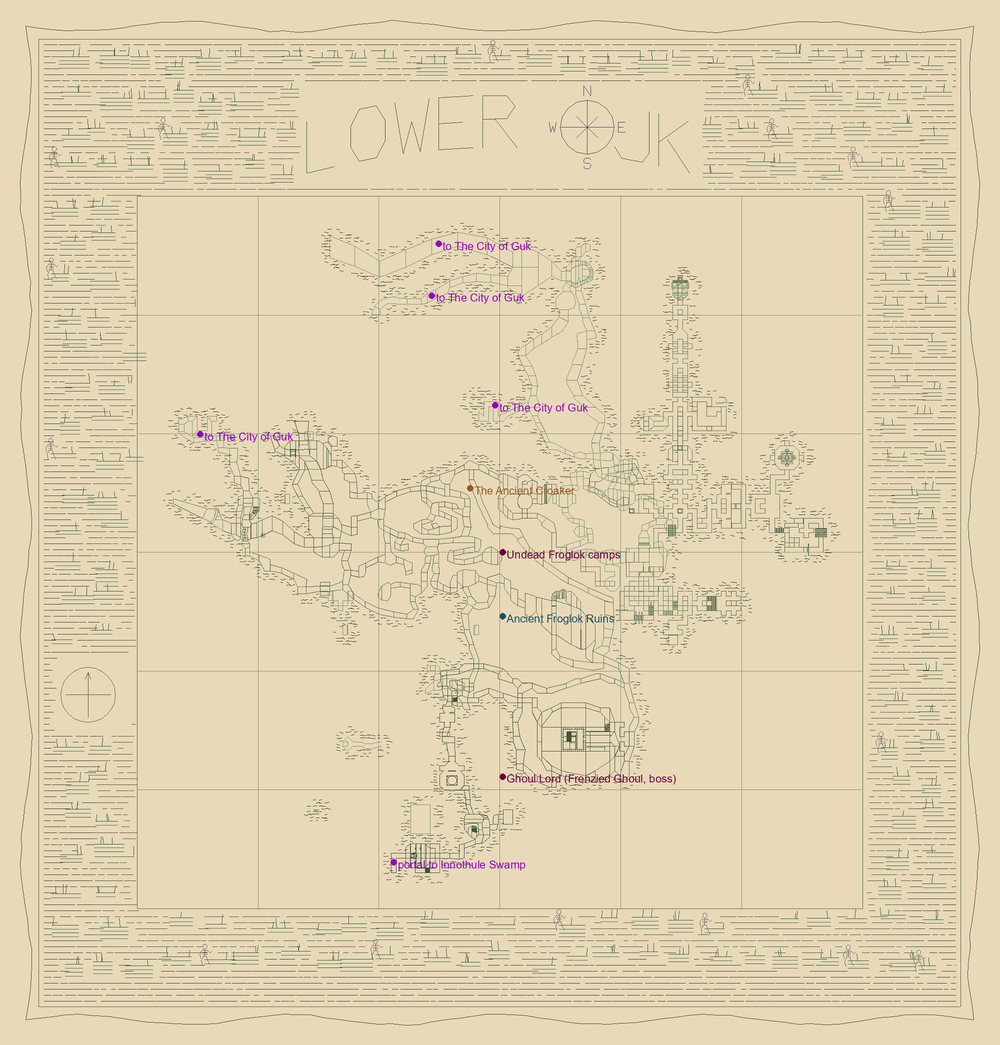
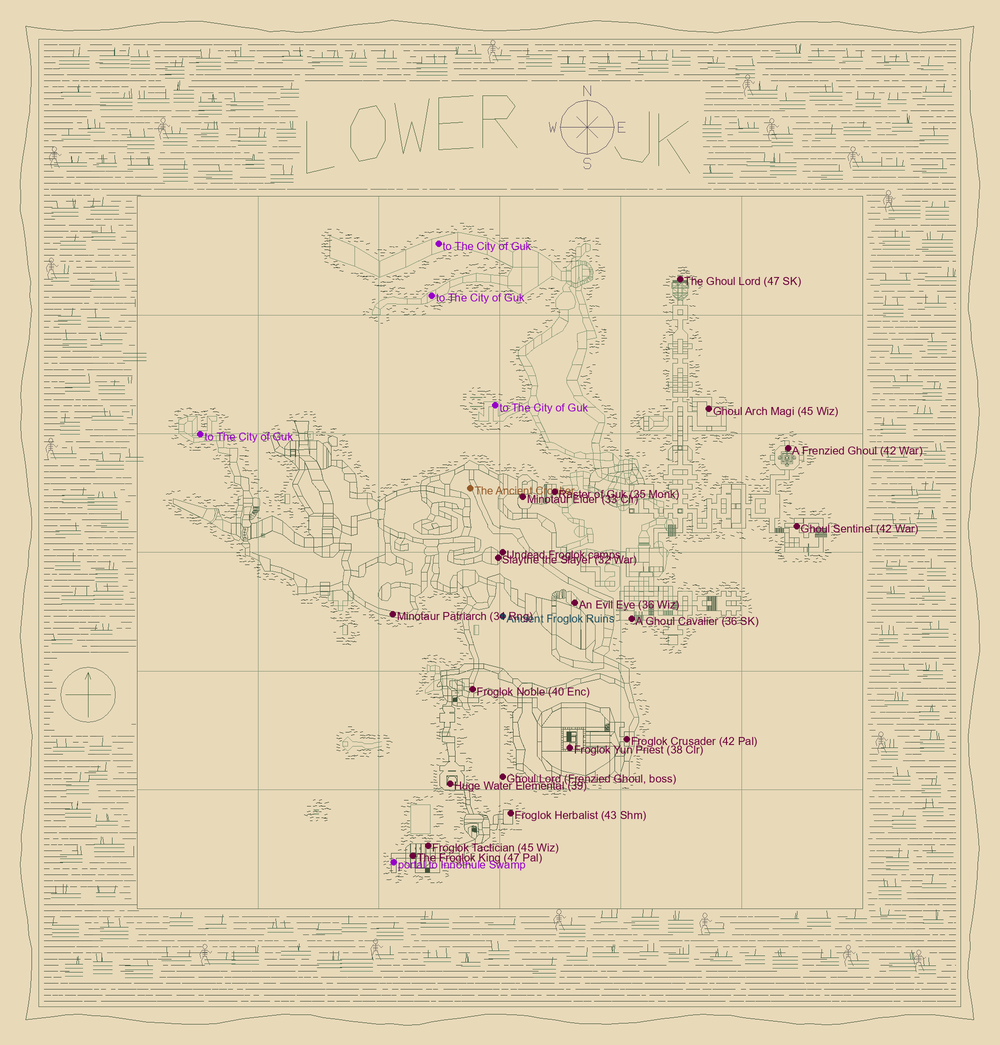
Guk POI: add the full named-mob roster from the EQL wiki (Upper +10, Lower +17), transform-placed

diff --git a/src/data/wiki/gukbottom.md b/src/data/wiki/gukbottom.md
@@ -1,5 +1,5 @@
 # Lower_Guk (eqlwiki.com)
-fetched: 2026-08-18
+fetched: 2026-08-19
 
 Lower Guk - EverQuest Legends Wiki
 Jump to content
@@ -1474,7 +1474,7 @@ A ghoul cavalier
 Old Froglok Ghoul |
 Shadow Knight |
 36 |
-75% @ (578, -609) |
+75% @ (578, -609, -192) |
 Adamantite EpauletsAdamantite Epaulets
 MAGIC ITEM
 Slot: SHOULDERS
